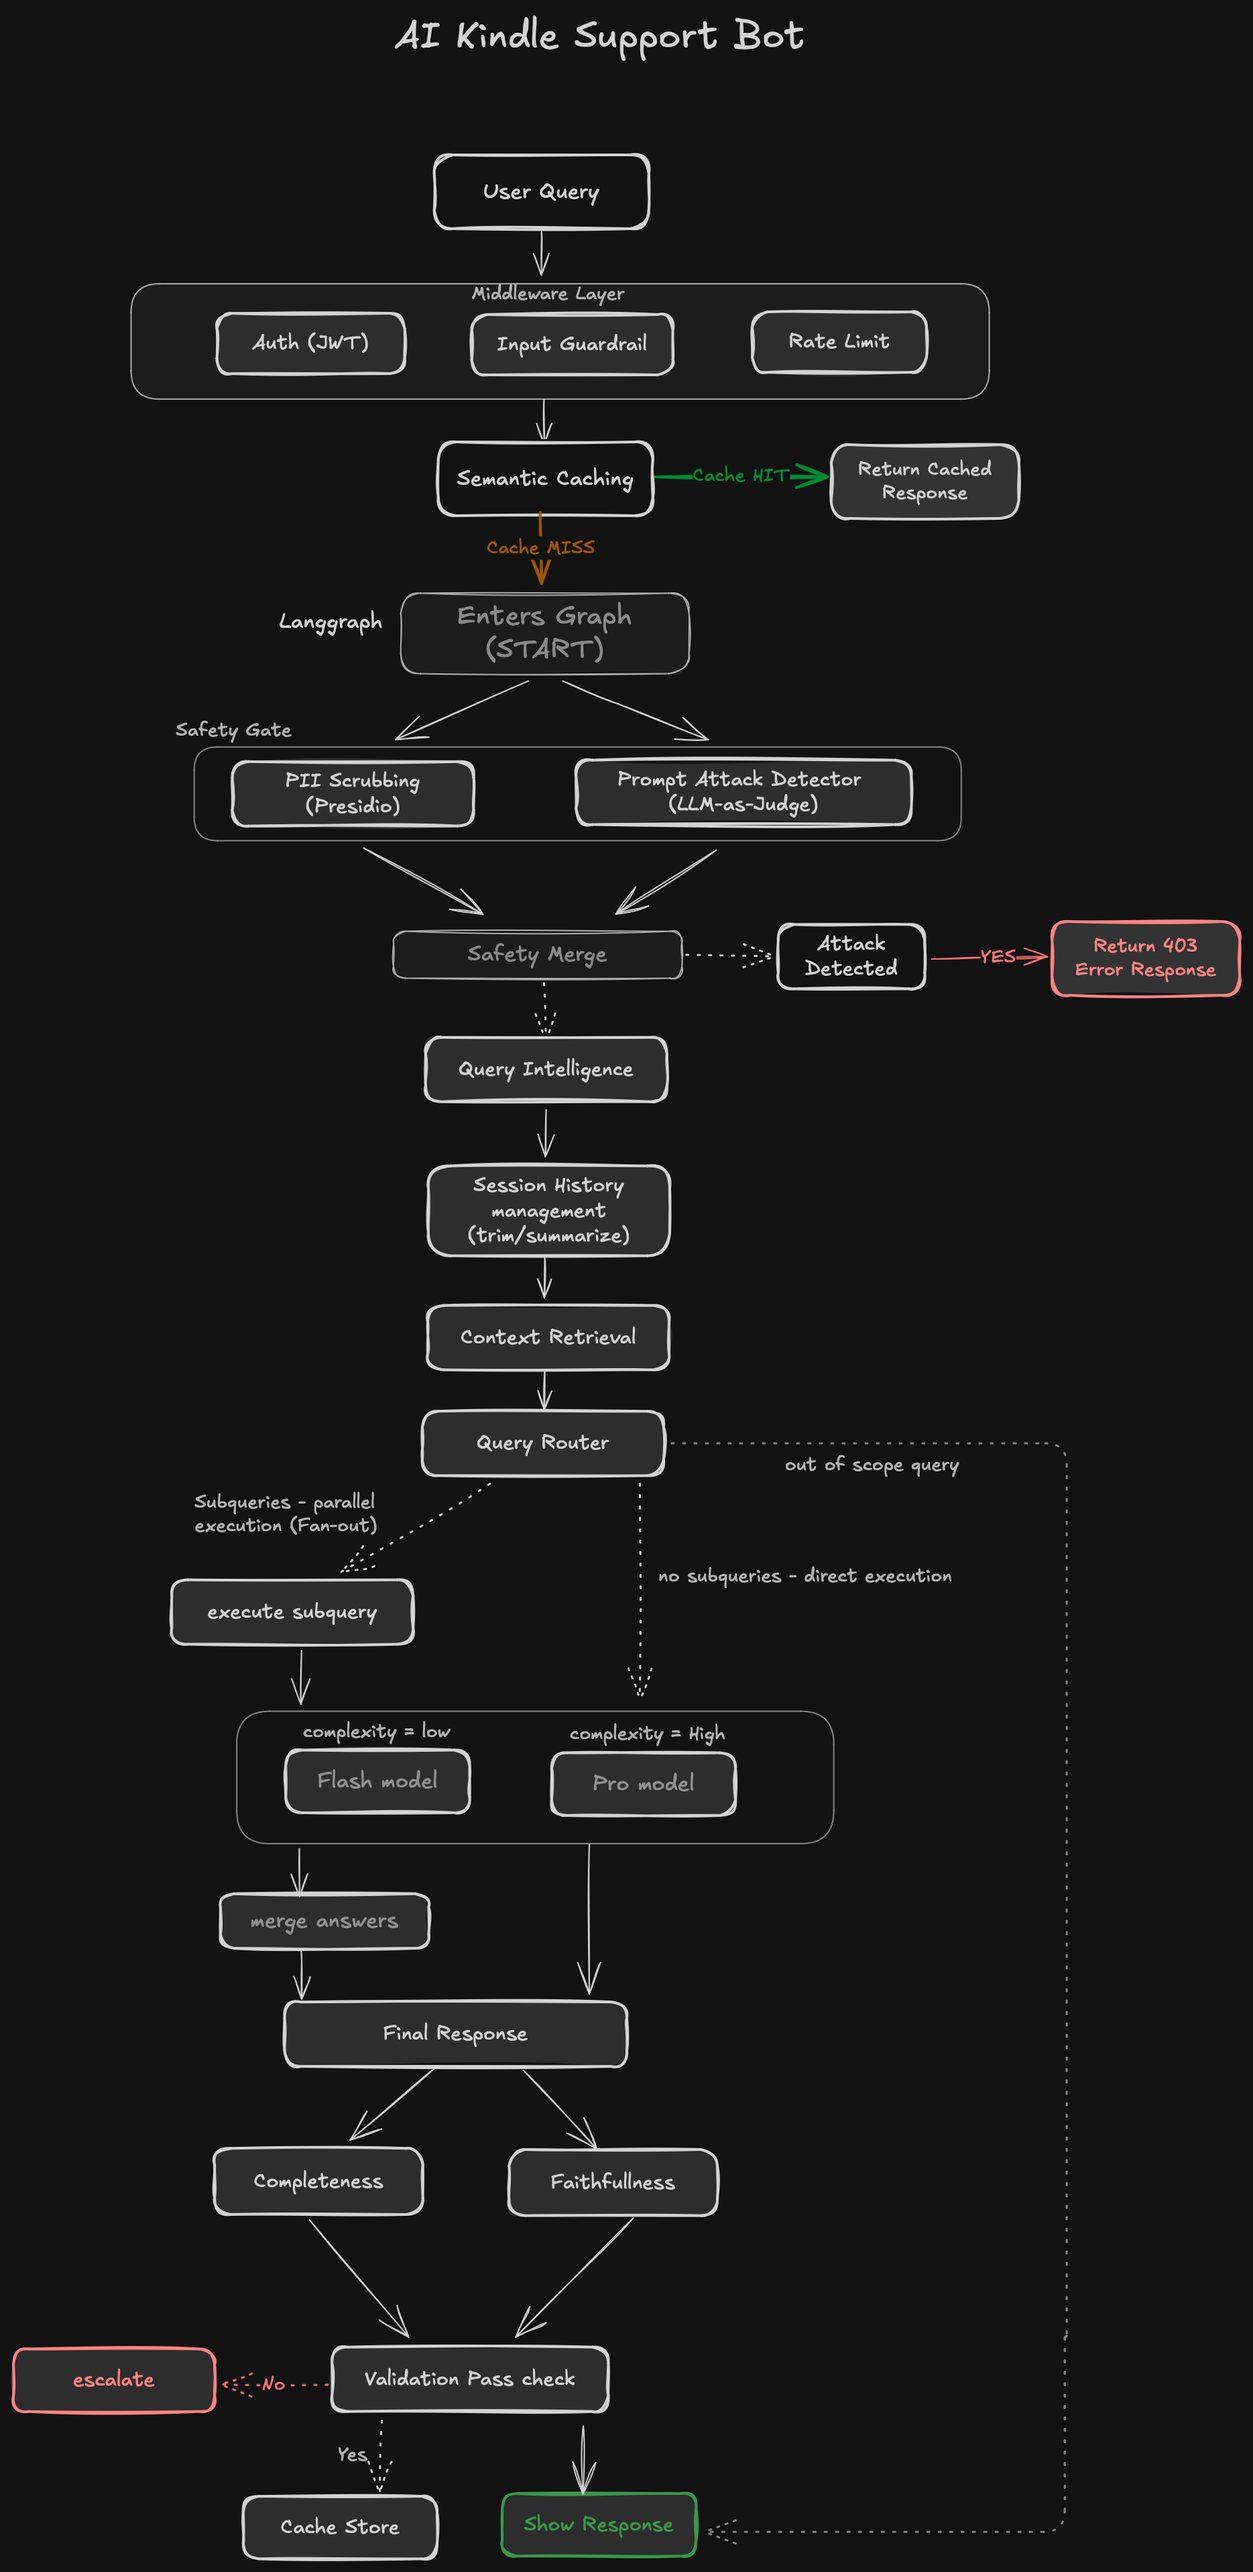
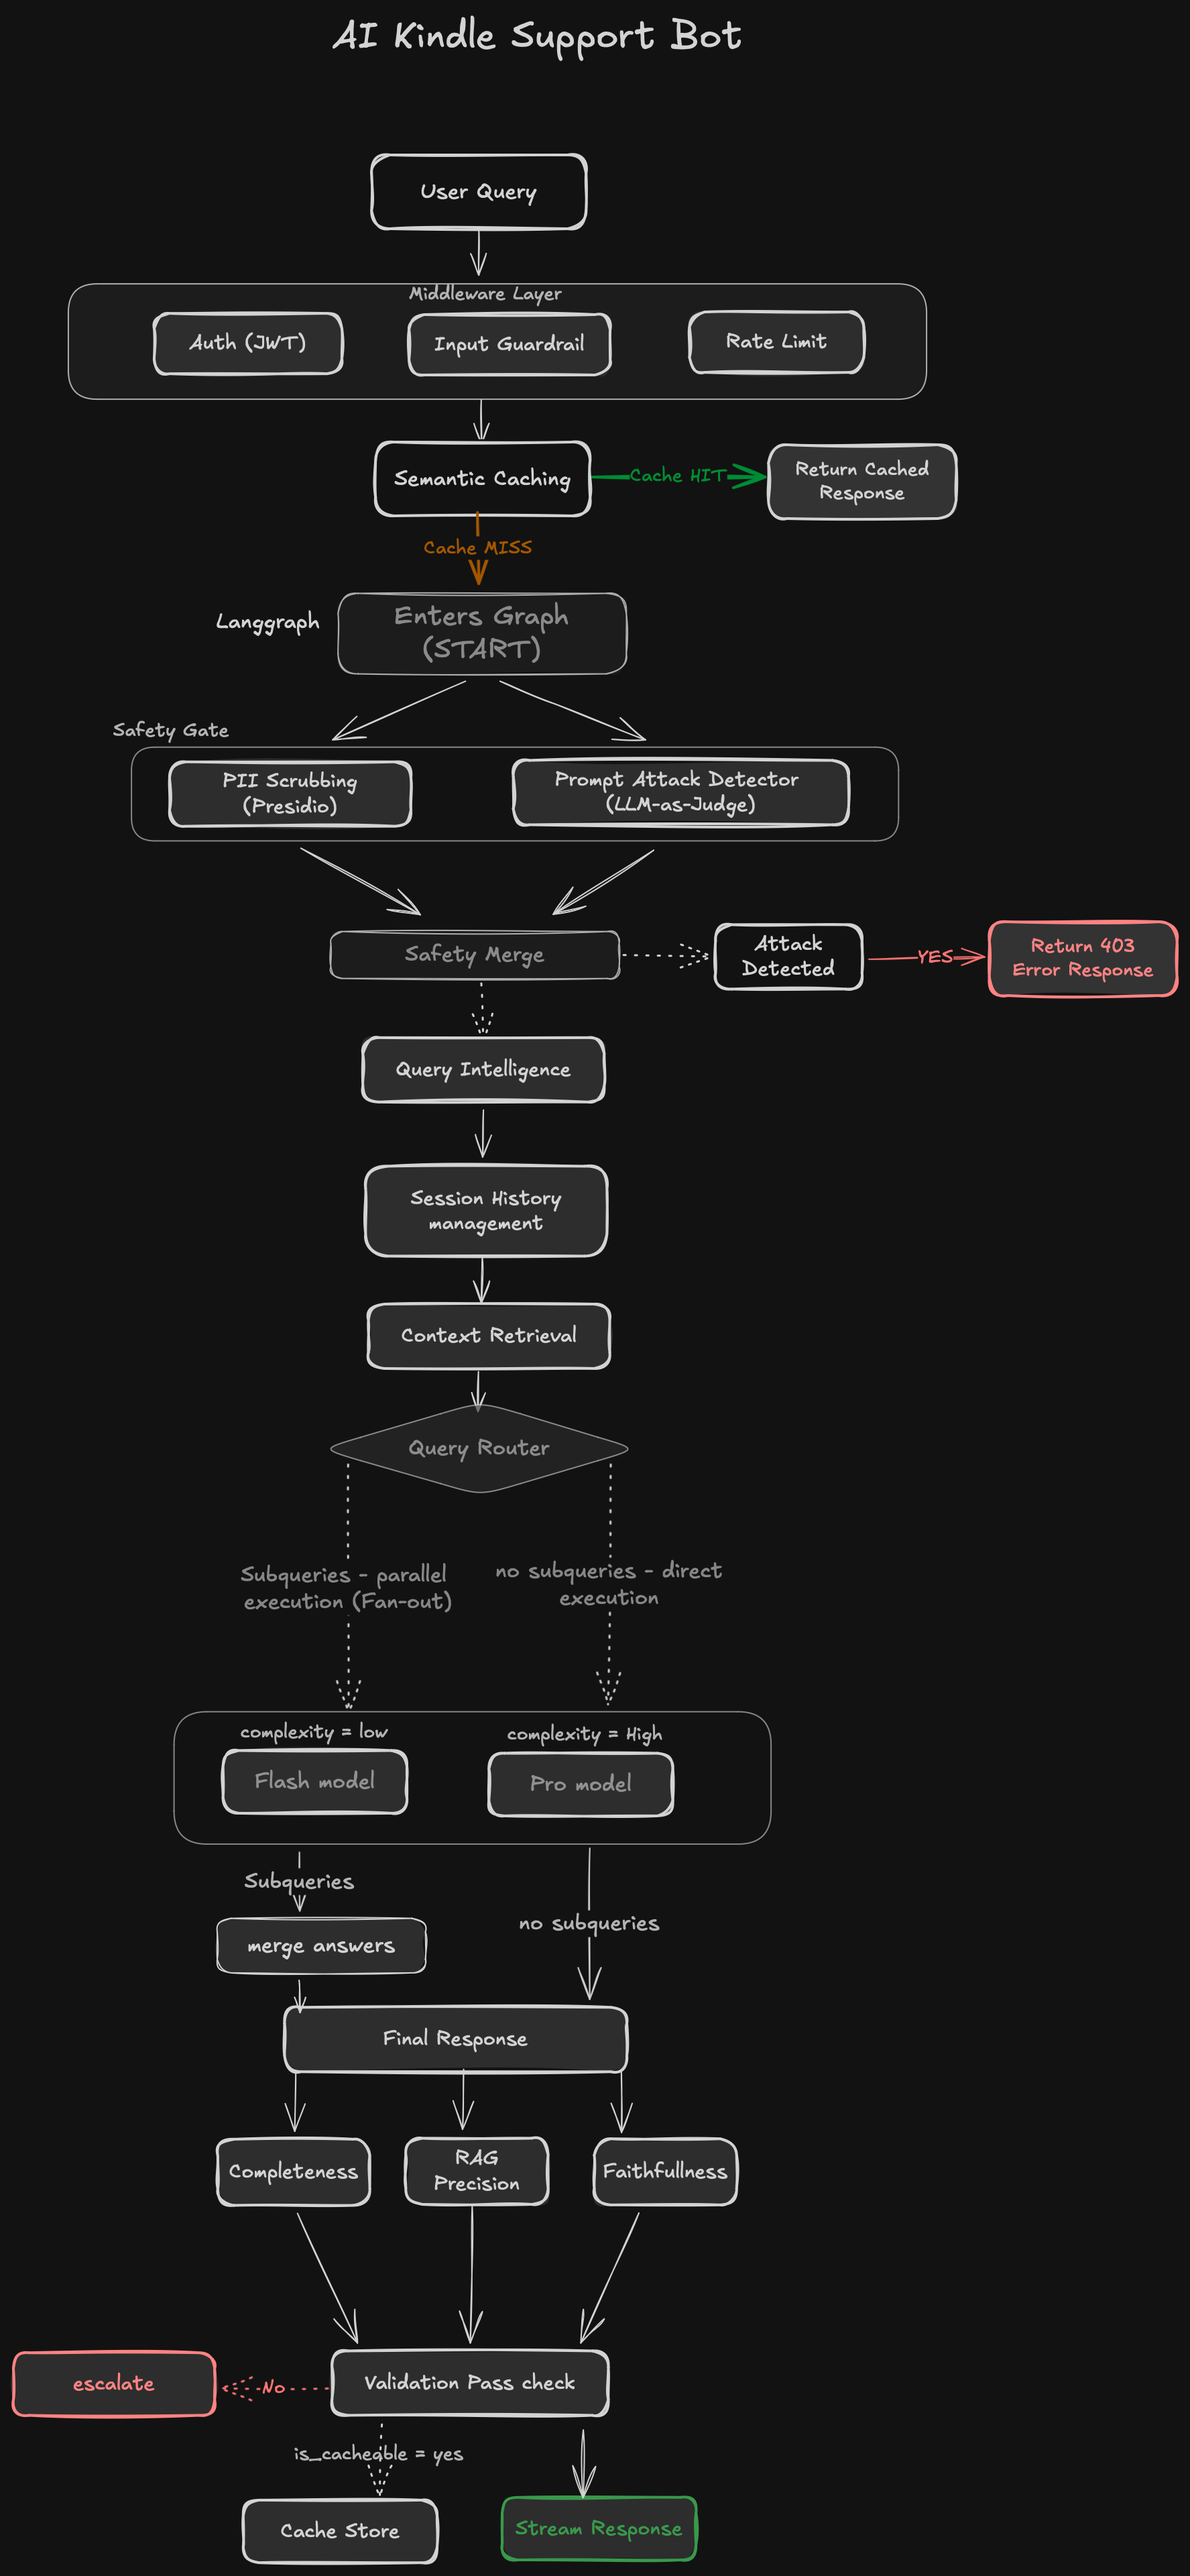
feat: add RAG precision metric and update architecture diagram
- Add rag_precision_node running in parallel with faithfulness/completeness
- LLM judge scores fraction of retrieved nodes actually used in response
- Add rag_precision_score to state, QueryResponse, eval_results, eval_runs
- Track avg_rag_precision in eval run summaries and terminal output
- Update architecture.png with latest diagram

diff --git a/eval/runner.py b/eval/runner.py
@@ -105,12 +105,13 @@ async def score_case(case: dict, body: dict | None, status: int) -> dict:
     failure_reason  = None
     passed          = False
 
-    faithfulness  = body.get("faithfulness_score", 0.0) if body else 0.0
-    completeness  = body.get("completeness_score", 0.0) if body else 0.0
-    validation_ok = body.get("validation_passed",  False) if body else False
-    model_used    = body.get("model_used", "")           if body else ""
-    response_text = body.get("response",   "")           if body else ""
-    request_id    = body.get("request_id", "")           if body else ""
+    faithfulness   = body.get("faithfulness_score",  0.0)  if body else 0.0
+    completeness   = body.get("completeness_score",  0.0)  if body else 0.0
+    rag_precision  = body.get("rag_precision_score", 0.0)  if body else 0.0
+    validation_ok  = body.get("validation_passed",   False) if body else False
+    model_used     = body.get("model_used", "")             if body else ""
+    response_text  = body.get("response",   "")             if body else ""
+    request_id     = body.get("request_id", "")             if body else ""
 
     correctness = None
     if expected_answer and response_text and status == 200:
@@ -145,20 +146,21 @@ async def score_case(case: dict, body: dict | None, status: int) -> dict:
             passed = True
 
     return {
-        "test_case_id":       case["id"],
-        "category":           category,
-        "query":              case["query"],
-        "bot_response":       response_text,
-        "expected_answer":    expected_answer,
-        "passed":             passed,
-        "faithfulness_score": faithfulness,
-        "completeness_score": completeness,
-        "correctness_score":  correctness,
-        "validation_passed":  validation_ok,
-        "model_used":         model_used,
-        "http_status":        status,
-        "failure_reason":     failure_reason,
-        "request_id":         request_id,
+        "test_case_id":        case["id"],
+        "category":            category,
+        "query":               case["query"],
+        "bot_response":        response_text,
+        "expected_answer":     expected_answer,
+        "passed":              passed,
+        "faithfulness_score":  faithfulness,
+        "completeness_score":  completeness,
+        "rag_precision_score": rag_precision,
+        "correctness_score":   correctness,
+        "validation_passed":   validation_ok,
+        "model_used":          model_used,
+        "http_status":         status,
+        "failure_reason":      failure_reason,
+        "request_id":          request_id,
     }
 
 
@@ -169,11 +171,12 @@ CREATE TABLE IF NOT EXISTS eval_runs (
     total_cases      INT,
     passed           INT,
     failed           INT,
-    avg_faithfulness FLOAT,
-    avg_completeness FLOAT,
-    avg_correctness  FLOAT,
-    git_commit       TEXT,
-    notes            TEXT
+    avg_faithfulness  FLOAT,
+    avg_completeness  FLOAT,
+    avg_correctness   FLOAT,
+    avg_rag_precision FLOAT,
+    git_commit        TEXT,
+    notes             TEXT
 );
 
 CREATE TABLE IF NOT EXISTS eval_results (
@@ -185,9 +188,10 @@ CREATE TABLE IF NOT EXISTS eval_results (
     bot_response       TEXT,
     expected_answer    TEXT,
     passed             BOOLEAN,
-    faithfulness_score FLOAT,
-    completeness_score FLOAT,
-    correctness_score  FLOAT,
+    faithfulness_score  FLOAT,
+    completeness_score  FLOAT,
+    rag_precision_score FLOAT,
+    correctness_score   FLOAT,
     validation_passed  BOOLEAN,
     model_used         TEXT,
     http_status        INT,
@@ -204,8 +208,9 @@ async def store_results(run_id: str, results: list[dict], latencies: dict[str, f
     passed = sum(1 for r in results if r["passed"])
     scored = [r for r in results if r["category"] not in ("attack", "out_of_scope")]
 
-    avg_f = sum(r["faithfulness_score"] for r in scored) / len(scored) if scored else 0.0
-    avg_c = sum(r["completeness_score"] for r in scored) / len(scored) if scored else 0.0
+    avg_f = sum(r["faithfulness_score"]  for r in scored) / len(scored) if scored else 0.0
+    avg_c = sum(r["completeness_score"]  for r in scored) / len(scored) if scored else 0.0
+    avg_p = sum(r["rag_precision_score"] for r in scored) / len(scored) if scored else 0.0
     correct_scored = [r for r in scored if r["correctness_score"] is not None]
     avg_k = sum(r["correctness_score"] for r in correct_scored) / len(correct_scored) if correct_scored else 0.0
 
@@ -218,21 +223,21 @@ async def store_results(run_id: str, results: list[dict], latencies: dict[str, f
         await conn.execute(_CREATE_SCHEMA)
         await conn.execute(
             """INSERT INTO eval_runs
-               (run_id, total_cases, passed, failed, avg_faithfulness, avg_completeness, avg_correctness, git_commit, notes)
-               VALUES (%s, %s, %s, %s, %s, %s, %s, %s, %s)""",
-            (run_id, total, passed, total - passed, avg_f, avg_c, avg_k, git_commit, EVAL_NOTES),
+               (run_id, total_cases, passed, failed, avg_faithfulness, avg_completeness, avg_correctness, avg_rag_precision, git_commit, notes)
+               VALUES (%s, %s, %s, %s, %s, %s, %s, %s, %s, %s)""",
+            (run_id, total, passed, total - passed, avg_f, avg_c, avg_k, avg_p, git_commit, EVAL_NOTES),
         )
         for r in results:
             await conn.execute(
                 """INSERT INTO eval_results
                    (run_id, test_case_id, category, query, bot_response, expected_answer,
-                    passed, faithfulness_score, completeness_score, correctness_score,
+                    passed, faithfulness_score, completeness_score, rag_precision_score, correctness_score,
                     validation_passed, model_used, http_status, latency_ms, failure_reason, request_id)
                    VALUES (%s,%s,%s,%s,%s,%s,%s,%s,%s,%s,%s,%s,%s,%s,%s,%s)""",
                 (
                     run_id, r["test_case_id"], r["category"], r["query"],
                     r["bot_response"], r["expected_answer"], r["passed"],
-                    r["faithfulness_score"], r["completeness_score"], r["correctness_score"],
+                    r["faithfulness_score"], r["completeness_score"], r["rag_precision_score"], r["correctness_score"],
                     r["validation_passed"], r["model_used"], r["http_status"],
                     latencies.get(r["test_case_id"], 0.0), r["failure_reason"], r["request_id"],
                 ),
@@ -240,7 +245,7 @@ async def store_results(run_id: str, results: list[dict], latencies: dict[str, f
         await conn.commit()
 
     print(f"\nRun {run_id[:8]}: {passed}/{total} passed")
-    print(f"Faithfulness {avg_f:.2f} | Completeness {avg_c:.2f} | Correctness {avg_k:.2f}")
+    print(f"Faithfulness {avg_f:.2f} | Completeness {avg_c:.2f} | Correctness {avg_k:.2f} | RAG Precision {avg_p:.2f}")
     if EVAL_NOTES:
         print(f"Notes: {EVAL_NOTES}")
     failures = [r for r in results if not r["passed"]]

diff --git a/app/graph/nodes/output_validation.py b/app/graph/nodes/output_validation.py
@@ -9,6 +9,7 @@ Both fan out from the execution node(s) and converge at validation_merge.
 from app.graph.state import SupportBotState
 from app.metrics.faithfulness import score_faithfulness
 from app.metrics.completeness import score_completeness
+from app.metrics.rag_precision import score_rag_precision
 from app.observability.logging import get_logger
 from app.config import settings
 
@@ -46,7 +47,31 @@ async def completeness_node(state: SupportBotState) -> dict:
     return {"completeness_score": score}
 
 
-# ── Node C: Validation merge ──────────────────────────────────────────────────
+# ── Node C: RAG Precision (LLM-as-judge) ─────────────────────────────────────
+
+async def rag_precision_node(state: SupportBotState) -> dict:
+    log = get_logger(state["request_id"], node="rag_precision")
+    context = state.get("retrieved_context", [])
+
+    if not context:
+        log.info("rag_precision_skipped", reason="no_context")
+        return {"rag_precision_score": 1.0}
+
+    try:
+        score = await score_rag_precision(
+            query=state["scrubbed_query"],
+            context=context,
+            response=state["raw_response"],
+        )
+    except Exception as exc:
+        log.warning("rag_precision_failed", error=str(exc))
+        score = 1.0
+
+    log.info("rag_precision_complete", score=round(score, 3))
+    return {"rag_precision_score": score}
+
+
+# ── Node D: Validation merge ──────────────────────────────────────────────────
 
 async def validation_merge_node(state: SupportBotState) -> dict:
     log = get_logger(state["request_id"], node="validation_merge")

diff --git a/main.py b/main.py
@@ -76,6 +76,7 @@ class QueryResponse(BaseModel):
     request_id: str
     faithfulness_score: float
     completeness_score: float
+    rag_precision_score: float
     validation_passed: bool
     model_used: str
 
@@ -129,6 +130,7 @@ def _build_initial_state(body: QueryRequest, session_id: str, request_id: str, p
         "model_used": "",
         "faithfulness_score": 0.0,
         "completeness_score": 0.0,
+        "rag_precision_score": 0.0,
         "validation_passed": False,
         "final_response": "",
     }
@@ -152,7 +154,7 @@ async def query_endpoint(body: QueryRequest, request: Request):
         log.info("cache_hit")
         cache_resp = QueryResponse(
             response=cached, session_id=session_id, request_id=request_id,
-            faithfulness_score=1.0, completeness_score=1.0,
+            faithfulness_score=1.0, completeness_score=1.0, rag_precision_score=1.0,
             validation_passed=True, model_used="cache",
         )
         if body.stream:
@@ -214,6 +216,7 @@ async def query_endpoint(body: QueryRequest, request: Request):
                 request_id=request_id,
                 faithfulness_score=f_score,
                 completeness_score=c_score,
+                rag_precision_score=result.get("rag_precision_score", 0.0),
                 validation_passed=result.get("validation_passed", False),
                 model_used=result.get("model_used", "unknown"),
             )
@@ -245,6 +248,7 @@ async def query_endpoint(body: QueryRequest, request: Request):
         request_id=request_id,
         faithfulness_score=result.get("faithfulness_score", 0.0),
         completeness_score=result.get("completeness_score", 0.0),
+        rag_precision_score=result.get("rag_precision_score", 0.0),
         validation_passed=result.get("validation_passed", False),
         model_used=result.get("model_used", "unknown"),
     )

diff --git a/app/graph/graph.py b/app/graph/graph.py
@@ -22,6 +22,7 @@ from app.graph.nodes.execution import (
 from app.graph.nodes.output_validation import (
     faithfulness_node,
     completeness_node,
+    rag_precision_node,
     validation_merge_node,
 )
 from app.graph.nodes.cache_store import cache_store_node
@@ -68,6 +69,7 @@ async def build_graph(pool: AsyncConnectionPool):
     g.add_node("merge_subqueries", merge_subqueries_node)
     g.add_node("faithfulness", faithfulness_node)
     g.add_node("completeness", completeness_node)
+    g.add_node("rag_precision", rag_precision_node)
     g.add_node("validation_merge", validation_merge_node)
     g.add_node("cache_store", cache_store_node)
 
@@ -97,19 +99,22 @@ async def build_graph(pool: AsyncConnectionPool):
         },
     )
 
-    # All single-query execution paths feed both validation nodes in parallel
+    # All single-query execution paths feed all three validation nodes in parallel
     for exec_node in ("generate_flash", "generate_pro"):
         g.add_edge(exec_node, "faithfulness")
         g.add_edge(exec_node, "completeness")
+        g.add_edge(exec_node, "rag_precision")
 
     # Sub-query fan-out merges first, then splits into validation
     g.add_edge("generate_subquery", "merge_subqueries")
     g.add_edge("merge_subqueries", "faithfulness")
     g.add_edge("merge_subqueries", "completeness")
+    g.add_edge("merge_subqueries", "rag_precision")
 
-    # Both validation nodes converge at validation_merge
+    # All three validation nodes converge at validation_merge
     g.add_edge("faithfulness", "validation_merge")
     g.add_edge("completeness", "validation_merge")
+    g.add_edge("rag_precision", "validation_merge")
 
     g.add_edge("validation_merge", "cache_store")
     g.add_edge("cache_store", END)

diff --git a/app/metrics/rag_precision.py b/app/metrics/rag_precision.py
@@ -1,0 +1,36 @@
+from pydantic import BaseModel
+from langchain_openai import ChatOpenAI
+from app.resilience.retry import llm_retry
+
+_PROMPT = """\
+You are evaluating whether retrieved document nodes were useful for generating a support bot response.
+
+Query: {query}
+
+Bot Response:
+{response}
+
+Retrieved Nodes:
+{nodes}
+
+Score from 0.0 to 1.0:
+- 1.0 = every retrieved node contributed information used in the response
+- 0.5 = about half the nodes were useful, the rest were irrelevant
+- 0.0 = none of the retrieved nodes were used in the response
+
+Reply with only a score."""
+
+
+class PrecisionResult(BaseModel):
+    score: float
+
+
+_llm = ChatOpenAI(model="gpt-4o-mini", temperature=0).with_structured_output(PrecisionResult)
+
+
+@llm_retry
+async def score_rag_precision(query: str, context: list[str], response: str) -> float:
+    nodes_text = "\n\n---\n\n".join(f"Node {i+1}:\n{c}" for i, c in enumerate(context))
+    prompt = _PROMPT.format(query=query, response=response, nodes=nodes_text)
+    result = await _llm.ainvoke(prompt)
+    return max(0.0, min(1.0, result.score))

diff --git a/app/graph/state.py b/app/graph/state.py
@@ -42,6 +42,7 @@ class SupportBotState(TypedDict):
     # --- validation ---
     faithfulness_score: float
     completeness_score: float
+    rag_precision_score: float
     validation_passed: bool
 
     # --- output ---
